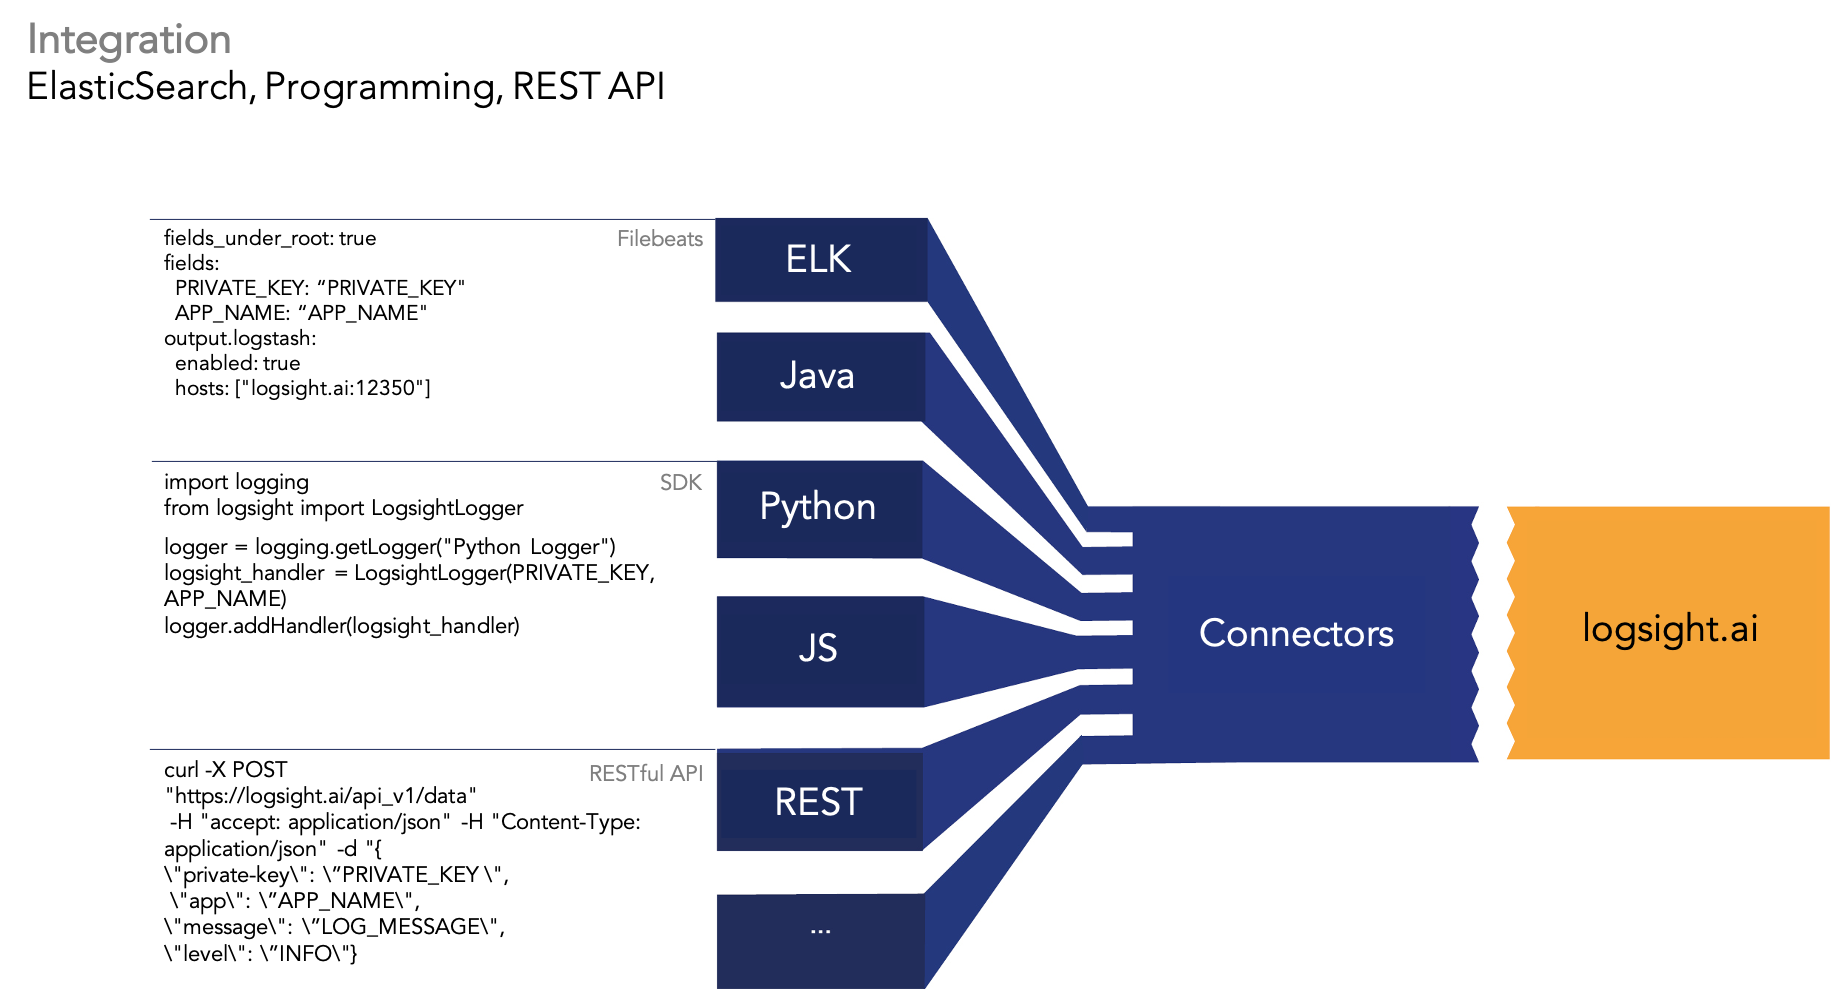
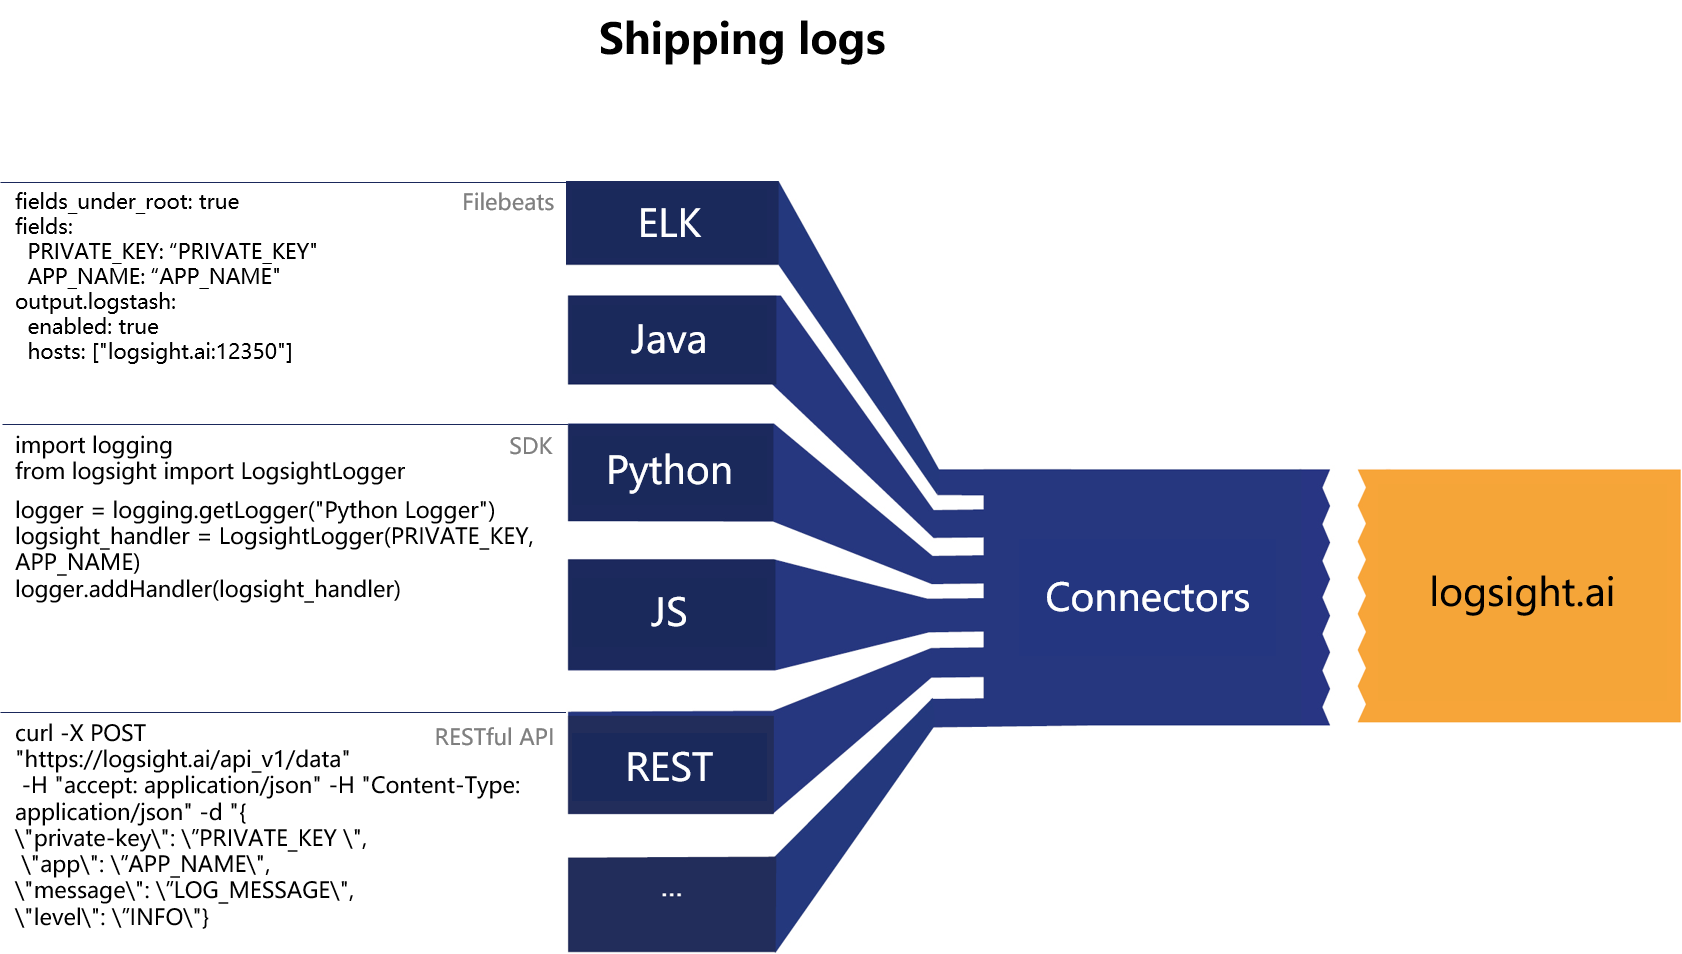
Improved documentation - Added shipping log section - Added sending log section

Changed region(s): [[0.0, 0.1824, 1.0, 1.0], [0.0, 0.1824, 0.2473, 0.4256], [0.0, 0.0304, 0.5256, 0.1216]]

diff --git a/docs/index.html b/docs/index.html
@@ -33,10 +33,10 @@
             style: 'flat',
           },
 
-  <!--        pagination: {-->
-  <!--          crossChapter: true,-->
-  <!--          crossChapterText: true,-->
-  <!--        }-->
+          pagination: {
+            crossChapter: true,
+            crossChapterText: true,
+          },
 
           plugins: [
             function(hook) {
@@ -63,10 +63,11 @@
   <script src="//cdn.jsdelivr.net/npm/prismjs@1/components/prism-nginx.min.js"></script>
   <script src="//cdn.jsdelivr.net/npm/prismjs@1/components/prism-php.min.js"></script>
   <script src="//cdn.jsdelivr.net/npm/prismjs@1/components/prism-python.min.js"></script>
+  <script src="//cdn.jsdelivr.net/npm/prismjs@1.22/components/prism-json.min.js"></script>
   <script src="//cdn.jsdelivr.net/npm/docsify/lib/plugins/ga.min.js"></script>
   <script src="//cdn.jsdelivr.net/npm/vue@2/dist/vue.min.js"></script>
   <script src="//cdn.jsdelivr.net/npm/docsify@4/lib/plugins/search.min.js"></script>
   <script src="//unpkg.com/docsify-plugin-flexible-alerts"></script>
-<!--  <script src="//unpkg.com/docsify-pagination/dist/docsify-pagination.min.js"></script>-->
+  <script src="//unpkg.com/docsify-pagination/dist/docsify-pagination.min.js"></script>
 </body>
 </html>

diff --git a/docs/sdk_api/sending_logs.py b/docs/sdk_api/sending_logs.py
@@ -1,0 +1,14 @@
+import sys
+import time
+import logging
+
+from logsight.logger import LogsightLogger
+
+
+handler = LogsightLogger('xteitdidb0xd32thtt35ccruy', 'jorge.cardoso.pt@gmail.com', 'test_app')
+
+logger = logging.getLogger(__name__)
+logger.addHandler(handler)
+
+logger.info('Hello Info!')
+logger.warning('Hello Warning', extra={'item': { 'price': 100.00 }})

diff --git a/docs/getting_started/README.md b/docs/getting_started/README.md
@@ -1,14 +1,19 @@
 # Overview
 
+`Logsight.ai` is the next generation of proactive troubleshooting platforms which rely on Deep Learning and AI-powered Log Analytics
+to discovery log data insights.
 
-## Getting started
 
+## Operating workflow
+
+1. `Shipping logs`. You set up a log collector to gather logs across your infrastructure and ship the logs to our centralized logging platform.
+2. `AI-processing`. We search and analyze your logs to identify uncommon patterns and structures using various AI-models. 
+3. `Incident detection`. Our AI-models are capable of identifying ongoing outages and incidents.
+4. `Notification`. We send you a notification when an incident is in progress.
+
+ 
 ![Logs](./getting_started/how_it_works.png ':size=1000' )
 
-+ `Shipping logs`. You set up a log collector to gather logs across your infrastructure and ship the logs to our centralized logging platform.
-+ `AI-processing`. We search and analyze your logs to identify uncommon patterns and structures using various AI-models. 
-+ `Incident detection`. Our AI-models are capable of identifying ongoing outages and incidents.
-+ `Notification`. We send you a notification when an incident is in progress.
 
 Our log analytics platform also provides important features to support troubleshooting:
 + `Log comparison`. You can compare logs to identify key differences that led to incidents. 
@@ -16,20 +21,36 @@ Our log analytics platform also provides important features to support troublesh
 + `Log variables`. You can visualize and analyze how the variables of your applications affect its health.    
 
 
-## Typical Scenarios
+## Typical deployment scenarios
 
-+ Enterprise self-built Log Analytics Platform
-+ Interconnection with third-party Log Analysis solutions
+The two most common options to deploy `Logsight.ai` are: 
 
-![Logs](./getting_started/logsight_architecture.png ':size=900' )
+1. Enterprise self-built Log Analytics Platform
+  + We provide the ELK stack to customers as well as AI-powered Log Analytics 
+2. Interconnection with third-party Log Analysis solutions
+  + You use your preferred log monitoring solution and use our AI-powered Log Analytics as an extension 
+
+
+![Logs](./getting_started/logsight_architecture.png ':size=700' )
 
 Our log analytics platform also provides important features to support troubleshooting:
-+ `Log collection`. 
-+ `Log aggreagtion`.  
-+ `AI-driven analytics`. 
-+ `Troubleshooting`. 
++ `Log collection`. Log shippers act as Lightweight agents installed on servers of your infrastructure for collecting logs.
++ `Log aggreagtion`. Logstash has many plugins for collecting, enriching, and transforming data from a variety of sources.
++ `AI-driven analytics`. Discover incidents, failure patterns and evaluate quality of log data.
++ `Troubleshooting`. Use proactive and contextual information to quickly determine the root-cause of problems.
 
-### Shipping logs
+## Shipping logs
 
-![Logs](./getting_started/shipping_logs.png ':size=800' )
+There are 3 options to ship logs `Logsight.ai`:
+
++ [Beats](https://www.elastic.co/beats/) or [Logstash](https://www.elastic.co/logstash/) 
++ [SDK for Python](https://logsight-sdk-py.readthedocs.io/en/latest/)
++ [curl](https://curl.se/) or [wget](https://www.gnu.org/software/wget/) 
+
+
+The SDK for Python provider the greater customization for you to integrate your platform with `Logsight.ai`. 
+Beats and Logstash provide out-of-the-box connector for dozens of systems (e.g., MySQL, Apache, Github, Kafka)  
+
+
+![Logs](./getting_started/shipping_logs.png ':size=600' )
 

diff --git a/docs/sdk_api/sending_logs.md b/docs/sdk_api/sending_logs.md
@@ -1,0 +1,55 @@
+Python
+=======
+
+Collect logs directly from any Python code, including Flask, Django, Dash. 
+
+Installation
+-------
+
+Install the logsight-sdk-py client library from PyPI:
+
+```bash
+pip install logsight-sdk-py
+```
+
+Example
+-------
+
+Our SDK contains a class LogsightLogger to be used with the default Python logger.
+It's very easy to start sending logs from your Python app to `logsight.ai`.
+
+Once the logger is registered, you can start logging by using the debug, info, warning,
+error or critical methods.
+
+All of these methods expect a string message and they allow adding additional dictionary 
+passed as an extra:
+
+
+```python
+import sys
+import time
+import logging
+
+from logsight.logger import LogsightLogger
+from logsight.
+
+handler = LogsightLogger('xteitdidb0xd32thtt35ccruy', 
+                         'jorge.cardoso.pt@gmail.com', 
+                         'test_app')
+
+logger = logging.getLogger(__name__)
+logger.addHandler(handler)
+
+logger.info('Hello Info!')
+logger.warning('Hello Warning', extra={'item': {'price': 100.00}})
+```
+
+The snippet above will send the following JSON rows to `logsight.ai`:
+
+```json
+{
+  "timestamp": "2021-03-29T11:24:21.788451Z",
+  "level": "info",
+  "message": "Hello Info!"
+}
+```

diff --git a/docs/_sidebar.md b/docs/_sidebar.md
@@ -11,6 +11,7 @@
     - [Look and feel](/logsight_ui/logsight_ui.md)
 
 - **SDK & API**
+    - [Sending logs](/sdk_api/sending_logs.md)
     - [Quick Start](https://logsight-sdk-py.readthedocs.io/en/latest/detecting_incidents/quick_guide.html)
     - [REST API](https://logsight-sdk-py.readthedocs.io/en/latest/api/description.html)
     
